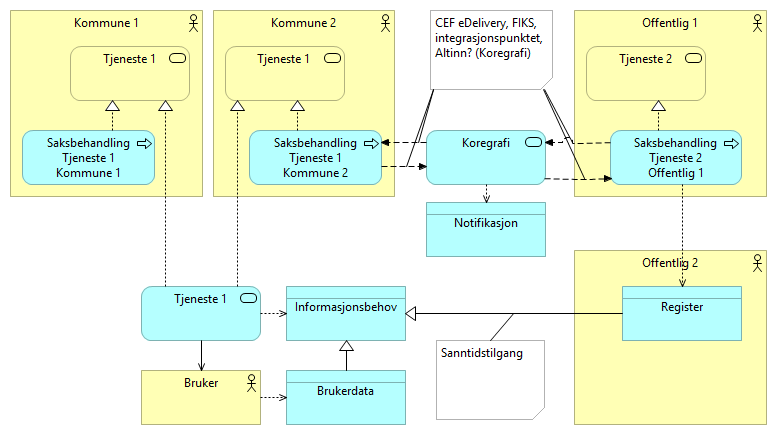
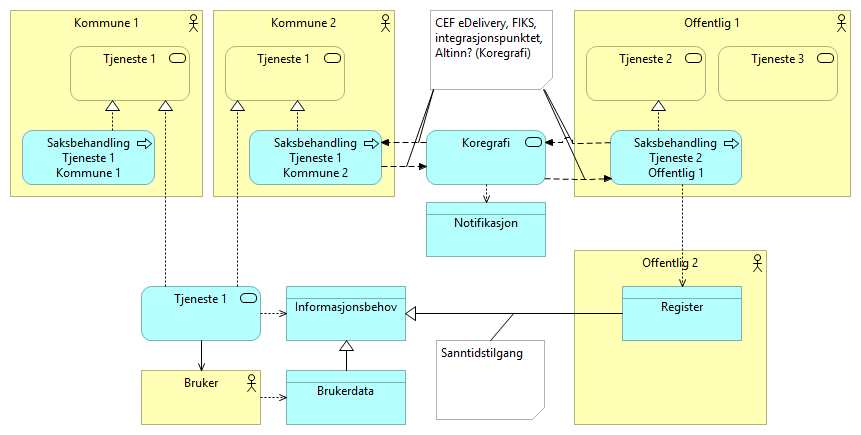
Oppdatert html med tjeneste 3 demo

diff --git a/docs/index.html b/docs/index.html
@@ -72,6 +72,8 @@
 													<li class="tree-element"><a href="70ff1122-82b9-4d13-a15c-6cdc858dd4b3/elements/edbc41bd-ce3a-497d-82df-7886f0b52498.html" target="element"> Kommune 2 </a></li>
 													<li class="tree-element"><a href="70ff1122-82b9-4d13-a15c-6cdc858dd4b3/elements/69f1a2d9-0156-4349-afdf-cdc3a712f304.html" target="element"> Informasjon </a></li>
 													<li class="tree-element"><a href="70ff1122-82b9-4d13-a15c-6cdc858dd4b3/elements/bd719515-8de9-4fc9-95d8-1e429305baf6.html" target="element"> Tjeneste </a></li>
+													<li class="tree-element"><a href="70ff1122-82b9-4d13-a15c-6cdc858dd4b3/elements/0b467128-ce0f-4ce7-a4f3-eb270d9b739e.html" target="element"> Steg 2 </a></li>
+													<li class="tree-element"><a href="70ff1122-82b9-4d13-a15c-6cdc858dd4b3/elements/1920f4bd-6225-41f0-bfa2-7cafedd8d6df.html" target="element"> Forretningsprosess </a></li>
 													<li class="tree-element"><a href="70ff1122-82b9-4d13-a15c-6cdc858dd4b3/elements/48eb4a74-c1f8-4adf-ae94-2d6c5d314868.html" target="element"> Prosesser </a></li>
 													<li class="tree-element"><a href="70ff1122-82b9-4d13-a15c-6cdc858dd4b3/elements/6f7d071d-de79-4de1-b3cd-31f4bba9c64b.html" target="element"> Tjenesteeier A </a></li>
 													<li class="tree-element"><a href="70ff1122-82b9-4d13-a15c-6cdc858dd4b3/elements/88b3564b-ef79-4edb-a221-c6e4e22134cf.html" target="element">  </a></li>
@@ -88,8 +90,7 @@
 													<li class="tree-element"><a href="70ff1122-82b9-4d13-a15c-6cdc858dd4b3/elements/7086a9bb-cf8a-44e1-af1b-eb312a955059.html" target="element"> Kontrakt </a></li>
 													<li class="tree-element"><a href="70ff1122-82b9-4d13-a15c-6cdc858dd4b3/elements/097baf07-12f8-443e-808b-5921fd8711ff.html" target="element"> Produkt </a></li>
 													<li class="tree-element"><a href="70ff1122-82b9-4d13-a15c-6cdc858dd4b3/elements/663a3011-bbc9-40e0-a787-862307137088.html" target="element"> Altinn Tjenester </a></li>
-													<li class="tree-element"><a href="70ff1122-82b9-4d13-a15c-6cdc858dd4b3/elements/1920f4bd-6225-41f0-bfa2-7cafedd8d6df.html" target="element"> Forretningsprosess </a></li>
-													<li class="tree-element"><a href="70ff1122-82b9-4d13-a15c-6cdc858dd4b3/elements/0b467128-ce0f-4ce7-a4f3-eb270d9b739e.html" target="element"> Steg 2 </a></li>
+													<li class="tree-element"><a href="70ff1122-82b9-4d13-a15c-6cdc858dd4b3/elements/5b7d231a-2eb3-45fe-a4fc-16c7a7f58fff.html" target="element"> Tjeneste 3 </a></li>
 
 									</ul>
 								</li>
@@ -204,6 +205,10 @@
 															<span class="i18n-elementtype-AggregationRelationship"></span>
 														(Altinn Tjenester - Kj&#248;retidsmilj&#248; for &#229; kj&#248;re tjenestene) 
 													</a></li>
+													<li class="tree-element"><a href="70ff1122-82b9-4d13-a15c-6cdc858dd4b3/elements/463074cc-8db2-4ac4-898c-597753d13e40.html" target="element">
+															<span class="i18n-elementtype-AggregationRelationship"></span>
+														(Verdikjede 1 - Forretningsprosess) 
+													</a></li>
 													<li class="tree-element"><a href="70ff1122-82b9-4d13-a15c-6cdc858dd4b3/elements/4c98adc4-b56c-4345-950c-57b1936ed7c2.html" target="element">
 															<span class="i18n-elementtype-AggregationRelationship"></span>
 														(Altinn Tjenester - Kontrakt) 
@@ -219,6 +224,10 @@
 													<li class="tree-element"><a href="70ff1122-82b9-4d13-a15c-6cdc858dd4b3/elements/a8c27a6e-7389-4f7f-8699-2185fd53fd61.html" target="element">
 															<span class="i18n-elementtype-AggregationRelationship"></span>
 														(Produkt - Tjeneste) 
+													</a></li>
+													<li class="tree-element"><a href="70ff1122-82b9-4d13-a15c-6cdc858dd4b3/elements/b708dcfb-9435-4f6e-9b67-aa3a044d8790.html" target="element">
+															<span class="i18n-elementtype-AggregationRelationship"></span>
+														(Verdikjede 1 - Steg 2) 
 													</a></li>
 													<li class="tree-element"><a href="70ff1122-82b9-4d13-a15c-6cdc858dd4b3/elements/c1609019-a978-48c9-a5a7-3250b4054af3.html" target="element">
 															<span class="i18n-elementtype-AggregationRelationship"></span>
@@ -380,6 +389,10 @@
 															<span class="i18n-elementtype-FlowRelationship"></span>
 														(Tjeneste A - API) 
 													</a></li>
+													<li class="tree-element"><a href="70ff1122-82b9-4d13-a15c-6cdc858dd4b3/elements/35167a76-500b-4f4d-a415-390df18b01d3.html" target="element">
+															<span class="i18n-elementtype-InfluenceRelationship"></span>
+														(Course of Action 1 - Verdikjede 1) 
+													</a></li>
 													<li class="tree-element"><a href="70ff1122-82b9-4d13-a15c-6cdc858dd4b3/elements/f2e47d88-5992-41cf-a260-d1f228e0fbb3.html" target="element">
 															<span class="i18n-elementtype-InfluenceRelationship"></span>
 														(Hovedm&#229;l - Overordnede m&#229;l) 
@@ -412,6 +425,10 @@
 															<span class="i18n-elementtype-RealizationRelationship"></span>
 														(Produkt - Begrepskatalog) 
 													</a></li>
+													<li class="tree-element"><a href="70ff1122-82b9-4d13-a15c-6cdc858dd4b3/elements/5b6edc8c-541a-4a9c-8396-01f27a595465.html" target="element">
+															<span class="i18n-elementtype-RealizationRelationship"></span>
+														(Evne 4 - Verdikjede 1) 
+													</a></li>
 													<li class="tree-element"><a href="70ff1122-82b9-4d13-a15c-6cdc858dd4b3/elements/60372df3-4806-45ea-bb0f-595edd57fb55.html" target="element">
 															<span class="i18n-elementtype-RealizationRelationship"></span>
 														(Saksbehandling Tjeneste 1 Kommune 2 - Tjeneste 1 ) 
@@ -439,6 +456,14 @@
 													<li class="tree-element"><a href="70ff1122-82b9-4d13-a15c-6cdc858dd4b3/elements/a45249f7-d9f3-49f4-a161-edbd70e11d7f.html" target="element">
 															<span class="i18n-elementtype-RealizationRelationship"></span>
 														( - Evne) 
+													</a></li>
+													<li class="tree-element"><a href="70ff1122-82b9-4d13-a15c-6cdc858dd4b3/elements/a7e1f116-ff96-426a-92c5-d4622be416d7.html" target="element">
+															<span class="i18n-elementtype-RealizationRelationship"></span>
+														(Evne - Verdikjede 1) 
+													</a></li>
+													<li class="tree-element"><a href="70ff1122-82b9-4d13-a15c-6cdc858dd4b3/elements/aac9e09a-6a24-41c5-9bd4-208631f97bbe.html" target="element">
+															<span class="i18n-elementtype-RealizationRelationship"></span>
+														(Evne 2 - Verdikjede 1) 
 													</a></li>
 													<li class="tree-element"><a href="70ff1122-82b9-4d13-a15c-6cdc858dd4b3/elements/bfa4e9ae-5fe0-4780-86b0-954f16e9a289.html" target="element">
 															<span class="i18n-elementtype-RealizationRelationship"></span>
@@ -516,29 +541,9 @@
 															<span class="i18n-elementtype-SpecializationRelationship"></span>
 														(Brukerdata - Informasjonsbehov) 
 													</a></li>
-													<li class="tree-element"><a href="70ff1122-82b9-4d13-a15c-6cdc858dd4b3/elements/463074cc-8db2-4ac4-898c-597753d13e40.html" target="element">
-															<span class="i18n-elementtype-AggregationRelationship"></span>
-														(Verdikjede 1 - Forretningsprosess) 
-													</a></li>
-													<li class="tree-element"><a href="70ff1122-82b9-4d13-a15c-6cdc858dd4b3/elements/b708dcfb-9435-4f6e-9b67-aa3a044d8790.html" target="element">
-															<span class="i18n-elementtype-AggregationRelationship"></span>
-														(Verdikjede 1 - Steg 2) 
-													</a></li>
-													<li class="tree-element"><a href="70ff1122-82b9-4d13-a15c-6cdc858dd4b3/elements/5b6edc8c-541a-4a9c-8396-01f27a595465.html" target="element">
-															<span class="i18n-elementtype-RealizationRelationship"></span>
-														(Evne 4 - Verdikjede 1) 
-													</a></li>
-													<li class="tree-element"><a href="70ff1122-82b9-4d13-a15c-6cdc858dd4b3/elements/aac9e09a-6a24-41c5-9bd4-208631f97bbe.html" target="element">
-															<span class="i18n-elementtype-RealizationRelationship"></span>
-														(Evne 2 - Verdikjede 1) 
-													</a></li>
-													<li class="tree-element"><a href="70ff1122-82b9-4d13-a15c-6cdc858dd4b3/elements/a7e1f116-ff96-426a-92c5-d4622be416d7.html" target="element">
-															<span class="i18n-elementtype-RealizationRelationship"></span>
-														(Evne - Verdikjede 1) 
-													</a></li>
-													<li class="tree-element"><a href="70ff1122-82b9-4d13-a15c-6cdc858dd4b3/elements/35167a76-500b-4f4d-a415-390df18b01d3.html" target="element">
-															<span class="i18n-elementtype-InfluenceRelationship"></span>
-														(Course of Action 1 - Verdikjede 1) 
+													<li class="tree-element"><a href="70ff1122-82b9-4d13-a15c-6cdc858dd4b3/elements/bc23e078-cb59-486d-a17e-f3293241c6e1.html" target="element">
+															<span class="i18n-elementtype-AssignmentRelationship"></span>
+														(Offentlig 1 - Tjeneste 3) 
 													</a></li>
 
 									</ul>

diff --git a/docs/70ff1122-82b9-4d13-a15c-6cdc858dd4b3/elements/bc23e078-cb59-486d-a17e-f3293241c6e1.html b/docs/70ff1122-82b9-4d13-a15c-6cdc858dd4b3/elements/bc23e078-cb59-486d-a17e-f3293241c6e1.html
@@ -1,0 +1,69 @@
+<!DOCTYPE HTML PUBLIC "-//W3C//DTD HTML 4.01 Transitional//EN" "http://www.w3.org/TR/html4/loose.dtd">
+<html class="frame" lang="en">
+<head>
+	<meta http-equiv="Content-Type" content="text/html;charset=utf-8">
+	<title></title>
+
+	<!-- JQUERY (use 1.x branch to be compatible with IE 6/7/8) -->
+	<script type="text/javascript" src="../../lib/jquery/js/jquery-1.11.2.min.js"></script>
+	<!-- BOOTSTRAP -->
+	<link type="text/css" rel="stylesheet" href="../../lib/bootstrap/css/bootstrap-3.3.2.min.css">
+	<link type="text/css" rel="stylesheet" href="../../lib/bootstrap/css/bootstrap-theme-3.3.2.min.css">
+	<script type="text/javascript" src="../../lib/bootstrap/js/bootstrap-3.3.2.min.js"></script>
+	<!-- REPORT SPECIFIC -->
+	<link type="text/css" rel="stylesheet" href="../../css/model.css">
+	<link type="text/css" rel="stylesheet" href="../../css/i18n.css">
+	<script type="text/javascript" src="../../js/frame.js"></script>
+	<script type="text/javascript" src="../../js/imageMapResizer.min.js"></script>
+</head>
+
+<body>
+	<div class="panel panel-default root-panel">
+		<div class="panel-heading root-panel-heading">
+			<b></b>
+			(<span class="i18n-elementtype-AssignmentRelationship"></span>)
+			<a class="glyphicon glyphicon-info-sign" id="hint-AssignmentRelationship" target="hint"></a>
+		</div>
+		<div class="panel-body root-panel-body">
+			<div role="tabpanel">
+				<!-- Nav tabs -->
+				<ul class="nav nav-tabs" role="tablist">
+					<li role="presentation" class="active"><a href="#documentation" aria-controls="documentation" role="tab" data-toggle="tab" class="i18n-documentation"></a></li>
+					<li role="presentation"><a href="#properties" aria-controls="properties" role="tab" data-toggle="tab" class="i18n-properties"></a></li>
+				</ul>
+
+				<!-- Tab panes -->
+				<div class="tab-content">
+					<div role="tabpanel" class="tab-pane active" id="documentation">
+							<br>
+							<b class="i18n-relation-source"></b>
+								<a href="../elements/c52e817e-dc9a-4df4-ba36-082ae6569982.html" target="element">
+									Offentlig 1
+								</a> <br>
+							<b class="i18n-relation-target"></b>
+								<a href="../elements/5b7d231a-2eb3-45fe-a4fc-16c7a7f58fff.html" target="element">
+									Tjeneste 3
+								</a> <br>
+							<br>
+						<textarea id="docsrc" style="display:none"></textarea>
+						<div id="doctgt" style="white-space:pre-wrap"></div>
+					</div>
+					<div role="tabpanel" class="tab-pane" id="properties">
+						<table class="table table-striped table-hover table-condensed">
+							<thead>
+								<tr>
+									<th class="i18n-key"></th>
+									<th class="i18n-value"></th>
+								</tr>
+							</thead>
+							<tbody>
+							</tbody>
+						</table>
+					</div>
+			  </div>
+			</div>
+		</div>
+	</div>
+	<script type="text/javascript">imageMapResize();</script>
+</body>
+</html>

diff --git a/docs/70ff1122-82b9-4d13-a15c-6cdc858dd4b3/elements/5b7d231a-2eb3-45fe-a4fc-16c7a7f58fff.html b/docs/70ff1122-82b9-4d13-a15c-6cdc858dd4b3/elements/5b7d231a-2eb3-45fe-a4fc-16c7a7f58fff.html
@@ -1,0 +1,59 @@
+<!DOCTYPE HTML PUBLIC "-//W3C//DTD HTML 4.01 Transitional//EN" "http://www.w3.org/TR/html4/loose.dtd">
+<html class="frame" lang="en">
+<head>
+	<meta http-equiv="Content-Type" content="text/html;charset=utf-8">
+	<title>Tjeneste 3</title>
+
+	<!-- JQUERY (use 1.x branch to be compatible with IE 6/7/8) -->
+	<script type="text/javascript" src="../../lib/jquery/js/jquery-1.11.2.min.js"></script>
+	<!-- BOOTSTRAP -->
+	<link type="text/css" rel="stylesheet" href="../../lib/bootstrap/css/bootstrap-3.3.2.min.css">
+	<link type="text/css" rel="stylesheet" href="../../lib/bootstrap/css/bootstrap-theme-3.3.2.min.css">
+	<script type="text/javascript" src="../../lib/bootstrap/js/bootstrap-3.3.2.min.js"></script>
+	<!-- REPORT SPECIFIC -->
+	<link type="text/css" rel="stylesheet" href="../../css/model.css">
+	<link type="text/css" rel="stylesheet" href="../../css/i18n.css">
+	<script type="text/javascript" src="../../js/frame.js"></script>
+	<script type="text/javascript" src="../../js/imageMapResizer.min.js"></script>
+</head>
+
+<body>
+	<div class="panel panel-default root-panel">
+		<div class="panel-heading root-panel-heading">
+			<b>Tjeneste 3</b>
+			(<span class="i18n-elementtype-BusinessService"></span>)
+			<a class="glyphicon glyphicon-info-sign" id="hint-BusinessService" target="hint"></a>
+		</div>
+		<div class="panel-body root-panel-body">
+			<div role="tabpanel">
+				<!-- Nav tabs -->
+				<ul class="nav nav-tabs" role="tablist">
+					<li role="presentation" class="active"><a href="#documentation" aria-controls="documentation" role="tab" data-toggle="tab" class="i18n-documentation"></a></li>
+					<li role="presentation"><a href="#properties" aria-controls="properties" role="tab" data-toggle="tab" class="i18n-properties"></a></li>
+				</ul>
+
+				<!-- Tab panes -->
+				<div class="tab-content">
+					<div role="tabpanel" class="tab-pane active" id="documentation">
+						<textarea id="docsrc" style="display:none"></textarea>
+						<div id="doctgt" style="white-space:pre-wrap"></div>
+					</div>
+					<div role="tabpanel" class="tab-pane" id="properties">
+						<table class="table table-striped table-hover table-condensed">
+							<thead>
+								<tr>
+									<th class="i18n-key"></th>
+									<th class="i18n-value"></th>
+								</tr>
+							</thead>
+							<tbody>
+							</tbody>
+						</table>
+					</div>
+			  </div>
+			</div>
+		</div>
+	</div>
+	<script type="text/javascript">imageMapResize();</script>
+</body>
+</html>

diff --git a/docs/70ff1122-82b9-4d13-a15c-6cdc858dd4b3/views/9367ec91-09ca-402c-865f-4fd675e562e5.html b/docs/70ff1122-82b9-4d13-a15c-6cdc858dd4b3/views/9367ec91-09ca-402c-865f-4fd675e562e5.html
@@ -41,8 +41,9 @@
 						<area shape="rect" coords="286,370,406,425" href="../elements/5e939ae4-b625-43ef-85cb-e61b0490973c.html"  target="element">
 								<area shape="rect" coords="586,46,706,101" href="../elements/a504bacb-f007-42a4-a8d2-37961bcef6b3.html"  target="element">
 								<area shape="rect" coords="610,130,742,185" href="../elements/a6e3d074-5085-49c2-ba4b-1b86fba796f5.html"  target="element">
+								<area shape="rect" coords="718,46,838,101" href="../elements/5b7d231a-2eb3-45fe-a4fc-16c7a7f58fff.html"  target="element">
 
-						<area shape="rect" coords="574,10,767,197" href="../elements/c52e817e-dc9a-4df4-ba36-082ae6569982.html"  target="element">
+						<area shape="rect" coords="574,10,851,197" href="../elements/c52e817e-dc9a-4df4-ba36-082ae6569982.html"  target="element">
 								<area shape="rect" coords="622,286,742,341" href="../elements/c45f89bc-4e27-46a8-ae63-31e7c49297b8.html"  target="element">
 
 						<area shape="rect" coords="574,250,767,425" href="../elements/37ec56a9-e680-407a-8a30-662b368e10d6.html"  target="element">
@@ -100,6 +101,7 @@
 										<tr><td> <a href="../elements/c52e817e-dc9a-4df4-ba36-082ae6569982.html" target="element"> Offentlig 1 </a> </td><td class="i18n-elementtype-BusinessActor"></td></tr>
 												<tr><td> <a href="../elements/a504bacb-f007-42a4-a8d2-37961bcef6b3.html" target="element"> Tjeneste 2 </a> </td><td class="i18n-elementtype-BusinessService"></td></tr>
 												<tr><td> <a href="../elements/a6e3d074-5085-49c2-ba4b-1b86fba796f5.html" target="element"> Saksbehandling Tjeneste 2 Offentlig 1 </a> </td><td class="i18n-elementtype-ApplicationProcess"></td></tr>
+												<tr><td> <a href="../elements/5b7d231a-2eb3-45fe-a4fc-16c7a7f58fff.html" target="element"> Tjeneste 3 </a> </td><td class="i18n-elementtype-BusinessService"></td></tr>
 										
 										<tr><td> <a href="../elements/37ec56a9-e680-407a-8a30-662b368e10d6.html" target="element"> Offentlig 2 </a> </td><td class="i18n-elementtype-BusinessActor"></td></tr>
 												<tr><td> <a href="../elements/c45f89bc-4e27-46a8-ae63-31e7c49297b8.html" target="element"> Register </a> </td><td class="i18n-elementtype-DataObject"></td></tr>
